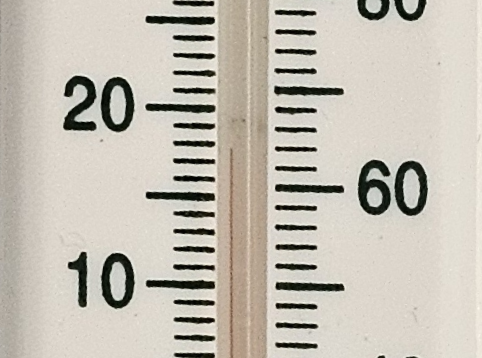
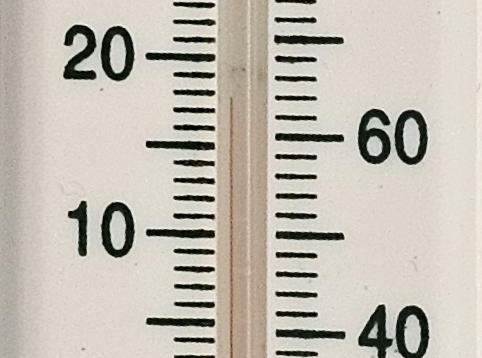
added security, made it more reliable and stable outputs

Changed region(s): [[0.1245, 0.0, 0.4979, 1.0], [0.529, 0.0, 0.9025, 1.0], [0.7158, 0.0, 0.9025, 0.0615]]

diff --git a/task3.py b/task3.py
@@ -69,7 +69,7 @@ def recognise_lcd_digits(sub_dir_path, lcd_name, allowDebug, output_path, config
         dname = os.path.splitext(os.path.basename(dfile))[0] # d1, d2 ...
 
         # obtain the singular result
-        result = yolo.predict(processed_img, retina_masks = False, iou=0.4)[0]
+        result = yolo.predict(processed_img, verbose=False, iou=0.4)[0]
         class_names = result.names
 
         if result is None or len(result.boxes) == 0:
@@ -199,13 +199,14 @@ def calculate_temperature(sub_dir_path, thermo_name, allowDebug, output_path, co
         imgCopy = image.copy()
         valid_lines = filter_horizontal_lines(lines, 5)
 
-        for line in valid_lines:
-            x1, y1, x2, y2 = line[0]
-
-
-            cv2.line(imgCopy, (x1, y1), (x2, y2), (0, 255, 0), 2)
+        if not valid_lines:
+            print("    [Task 3] No horizontal tick lines found.")
+            return 
 
         if allowDebug:
+            for line in valid_lines:
+                x1, y1, x2, y2 = line[0]
+                cv2.line(imgCopy, (x1, y1), (x2, y2), (0, 255, 0), 2)
             plt.imshow(imgCopy)
             plt.show()
 
@@ -218,7 +219,7 @@ def calculate_temperature(sub_dir_path, thermo_name, allowDebug, output_path, co
         # process image to remove lines in the centre and only include numbers
         processedImage = remove_ticks(image, configs)
 
-        result = number_reading_detector.predict(processedImage, conf=float(configs["task3_thermo_number_detector_confidence_threshold"]), retina_masks = True, iou=0.4)[0]
+        result = number_reading_detector.predict(processedImage, conf=float(configs["task3_thermo_number_detector_confidence_threshold"]), verbose=False, iou=0.4)[0]
         if allowDebug:
             plt.imshow(result.plot())
             plt.show()
@@ -403,12 +404,11 @@ def calculate_average_y_dist_per_tick(lines, image, allowDebug, configs):
         plt.imshow(imgCopy)
         plt.show()
 
-    avgYDistBetweenTicks = 0
-    for i in range(0, len(cleanedYPositions) - 1):
-        avgYDistBetweenTicks += abs(cleanedYPositions[i] - cleanedYPositions[i + 1]) # difference between sorted
+    if len(cleanedYPositions) < 2:
+        return 0 # Prevents division by zero
 
-    avgYDistBetweenTicks /= len(cleanedYPositions)
-
+    total_dist = sum(abs(cleanedYPositions[i] - cleanedYPositions[i + 1]) for i in range(len(cleanedYPositions) - 1))
+    avgYDistBetweenTicks = total_dist / (len(cleanedYPositions) - 1) # divides by the gaps
     print(f"     [Task 3] Thermo calculated average y dist between ticks: {avgYDistBetweenTicks}")
     return avgYDistBetweenTicks
     
@@ -452,6 +452,7 @@ def run_task3(image_path, configs, output_path):
     # find all the .sub directories in the input directory
     if not os.path.isdir(image_path):
         print(f"    [Task 3] Input path does not exist: {image_path}")
+        return
 
     # obtain all sub directories
     sub_dirs = sorted([d for d in os.listdir(image_path) if os.path.isdir(os.path.join(image_path, d))])

diff --git a/task1.py b/task1.py
@@ -99,6 +99,7 @@ def process_task1(images, allowBPMDebug, allowTHERMODebug, output_path, configs)
      # task 1 logic
     for i, img_file in enumerate(images):
         img = cv2.imread(img_file)
+
         if img is None:
             print(f"    [Task 1] Could not read {img_file}. Skipping.")
             continue
@@ -106,8 +107,8 @@ def process_task1(images, allowBPMDebug, allowTHERMODebug, output_path, configs)
         # extract image number from the file name (img2.jpg -> 2)
         basename = os.path.splitext(os.path.basename(img_file))[0]
         img_num = basename.replace("img", "")
-
-        results = bpm_model_detector.predict(img, conf=float(configs["task1_base_confidence_threshold_bpm_thermometer"]), retina_masks=True)
+        
+        results = bpm_model_detector.predict(img, verbose=False, conf=float(configs["task1_base_confidence_threshold_bpm_thermometer"]))
         result = results[0]
         # for each result    
         class_names = result.names
@@ -155,8 +156,11 @@ def process_task1(images, allowBPMDebug, allowTHERMODebug, output_path, configs)
                 print(f"    [Task 1] Object Detection not available for object label: {label_name}")
                 out_name = ""
             
-            final_output_path = os.path.join(output_path, out_name)
-            save_output(final_output_path, final_image, output_type='image')
+            if final_image is not None:
+                final_output_path = os.path.join(output_path, out_name)
+                save_output(final_output_path, final_image, output_type='image')
+            else:
+                print(f"    [Task 1] {basename}.jpg -> Processing failed, nothing saved.")
 
 def process_thermometer_image(img, tensorBox, allowDebug, configs):
     """
@@ -206,6 +210,11 @@ def process_bpm_image(img, tensorBox, allowDebug, configs):
 
     bpmAligned = sift_keypoint_perspective_warp(templateLCDImage, bpmImg, allowDebug, configs)
 
+    if bpmAligned is None:
+        print("    [Task 1] SIFT alignment failed. Returning unaligned crop.")
+        # fallback -> unaligned cropped image if warp fails
+        bpmAligned = bpmImg
+        
     if allowDebug:
         plt.imshow(bpmAligned)
         plt.show()
@@ -272,7 +281,7 @@ def sift_keypoint_perspective_warp(image1, image2, allowDebug, configs):
         final_image = cv2.warpPerspective(image2, M, (width, height))
         return final_image
     else:
-        print(f"    [Task 1] Not enough matches are found, current: {len(goodMatches)}, needed: {configs["task1_sift_keypoint_matches_required"]}")
+        print(f"    [Task 1] Not enough matches are found, current: {len(goodMatches)}")
         return None
     
 def obtain_good_matches(image1, image2):

diff --git a/task2.py b/task2.py
@@ -62,7 +62,7 @@ def segment_lcd(image, lcd_name, allowDebug, output_path, configs):
     # First run the lcd digit detector into the image
     digitDetector = load_YOLO(LCD_MODEL_PATH)
 
-    result = digitDetector.predict(image, retina_masks = True)[0]
+    result = digitDetector.predict(image, verbose=False)[0]
     if allowDebug:
         plt.imshow(result.plot())
         plt.show()
@@ -141,7 +141,9 @@ def segment_thermo(image, thermo_name, allowDebug, output_path, configs):
         return
     
     zoomHeight = h // int(configs["task2_thermo_zoom_divider"]) # height of crop will be a quarter of total thermometer height
-    crop = image[y_maximum_point - zoomHeight: y_maximum_point + zoomHeight, :]
+    y_start = max(0, y_maximum_point - zoomHeight)
+    y_end = min(h, y_maximum_point + zoomHeight)
+    crop = image[y_start: y_end, :]
     if allowDebug:
         plt.imshow(crop)
         plt.show()
@@ -240,7 +242,7 @@ def extract_main_fluid_column(binary_mask):
     # the main fluid body will most like havethe greatest area
 
     areas = stats[1:, cv2.CC_STAT_AREA]
-    if areas is not None or len(areas) == 0:
+    if len(areas) == 0:
         return binary_mask
 
     main_label = np.argmax(areas) + 1

diff --git a/task4.py b/task4.py
@@ -138,6 +138,8 @@ def process_task4(image_path, images, config, output_path):
 
 def run_task4(image_path, config, output_path):
 
+    os.makedirs(output_path, exist_ok=True)
+
     # find all the jpg images in input directory
     images = sorted(glob.glob(os.path.join(image_path, "img*.jpg")))
 
